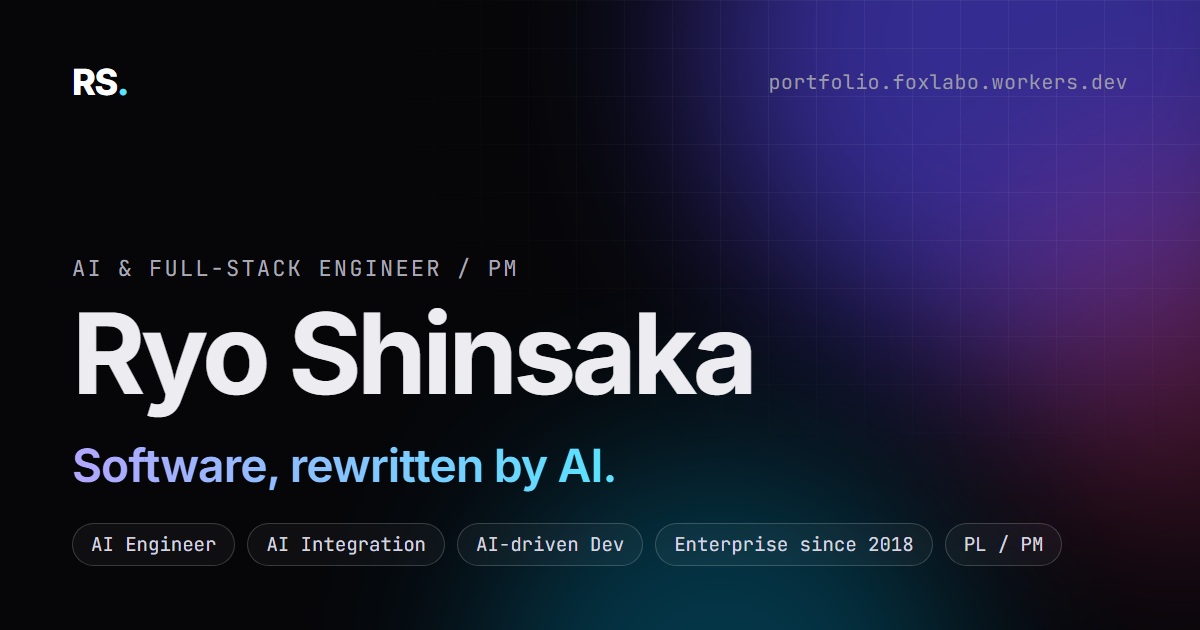
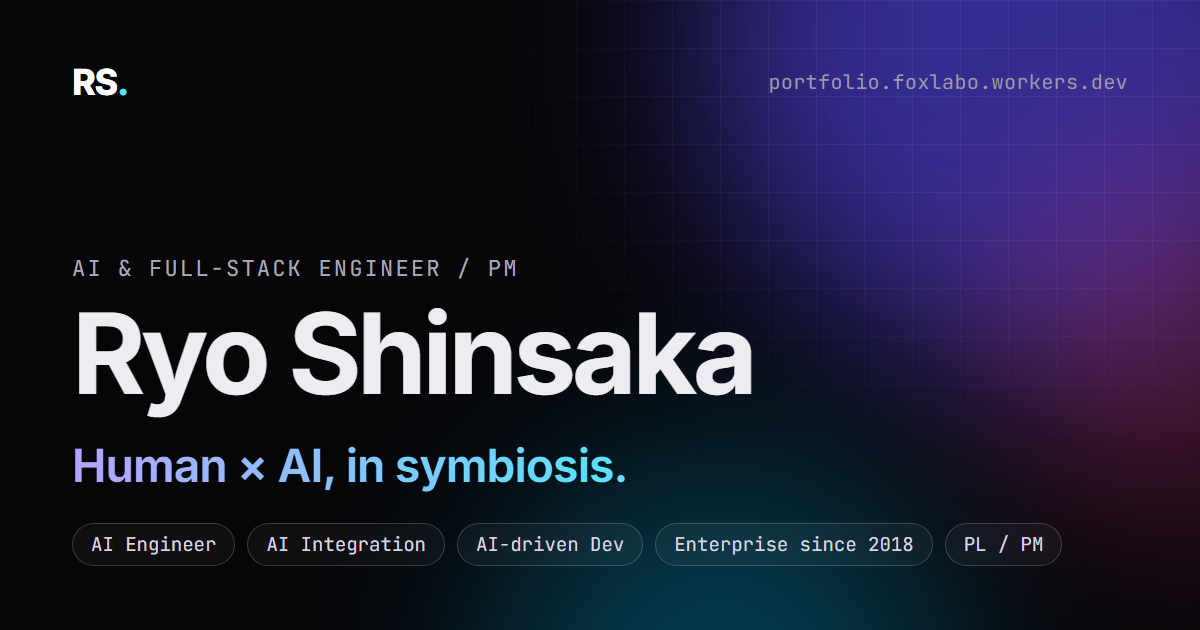
content: new tagline "Human × AI, in symbiosis."
Inspired by Licklider's "Man-Computer Symbiosis"; updated the hero,
the OGP image and its alt text.

Changed region(s): [[0.0617, 0.6937, 0.5242, 0.7841]]

diff --git a/src/data/profile.ts b/src/data/profile.ts
@@ -61,12 +61,12 @@ export const profile = {
       'AIをプロダクトに組み込み、開発もAIで加速させるフルスタックエンジニア／PMです。業務システム開発は9年目で、最大33名のチームをPLとして率いた経験があります。実績と個人開発を紹介しています。',
     /** public/ 以下の OGP 画像（1200×630）。scripts/og/og.html を編集して `npm run og` で作り直せる */
     ogImage: '/og.png',
-    ogImageAlt: 'Ryo Shinsaka — AI & Full-stack Engineer / PM。Software, rewritten by AI.',
+    ogImageAlt: 'Ryo Shinsaka — AI & Full-stack Engineer / PM。Human × AI, in symbiosis.',
   },
 
   tagline: {
-    lead: 'Software,',
-    accent: 'rewritten by AI.',
+    lead: 'Human × AI,',
+    accent: 'in symbiosis.',
   },
   intro:
     'RAG や音声・画像解析などの AI 機能をプロダクトに組み込み、開発そのものも Claude Code／Codex で加速させています。AI エンジニア・フルスタックエンジニア・PM として、要件定義から運用まで一貫して担います。',

diff --git a/scripts/og/og.html b/scripts/og/og.html
@@ -155,7 +155,7 @@
       <div class="main">
         <div class="role">AI &amp; Full-stack Engineer / PM</div>
         <div class="name">Ryo Shinsaka</div>
-        <div class="line">Software, rewritten by AI.</div>
+        <div class="line">Human × AI, in symbiosis.</div>
         <div class="tags">
           <span class="tag">AI Engineer</span>
           <span class="tag">AI Integration</span>
